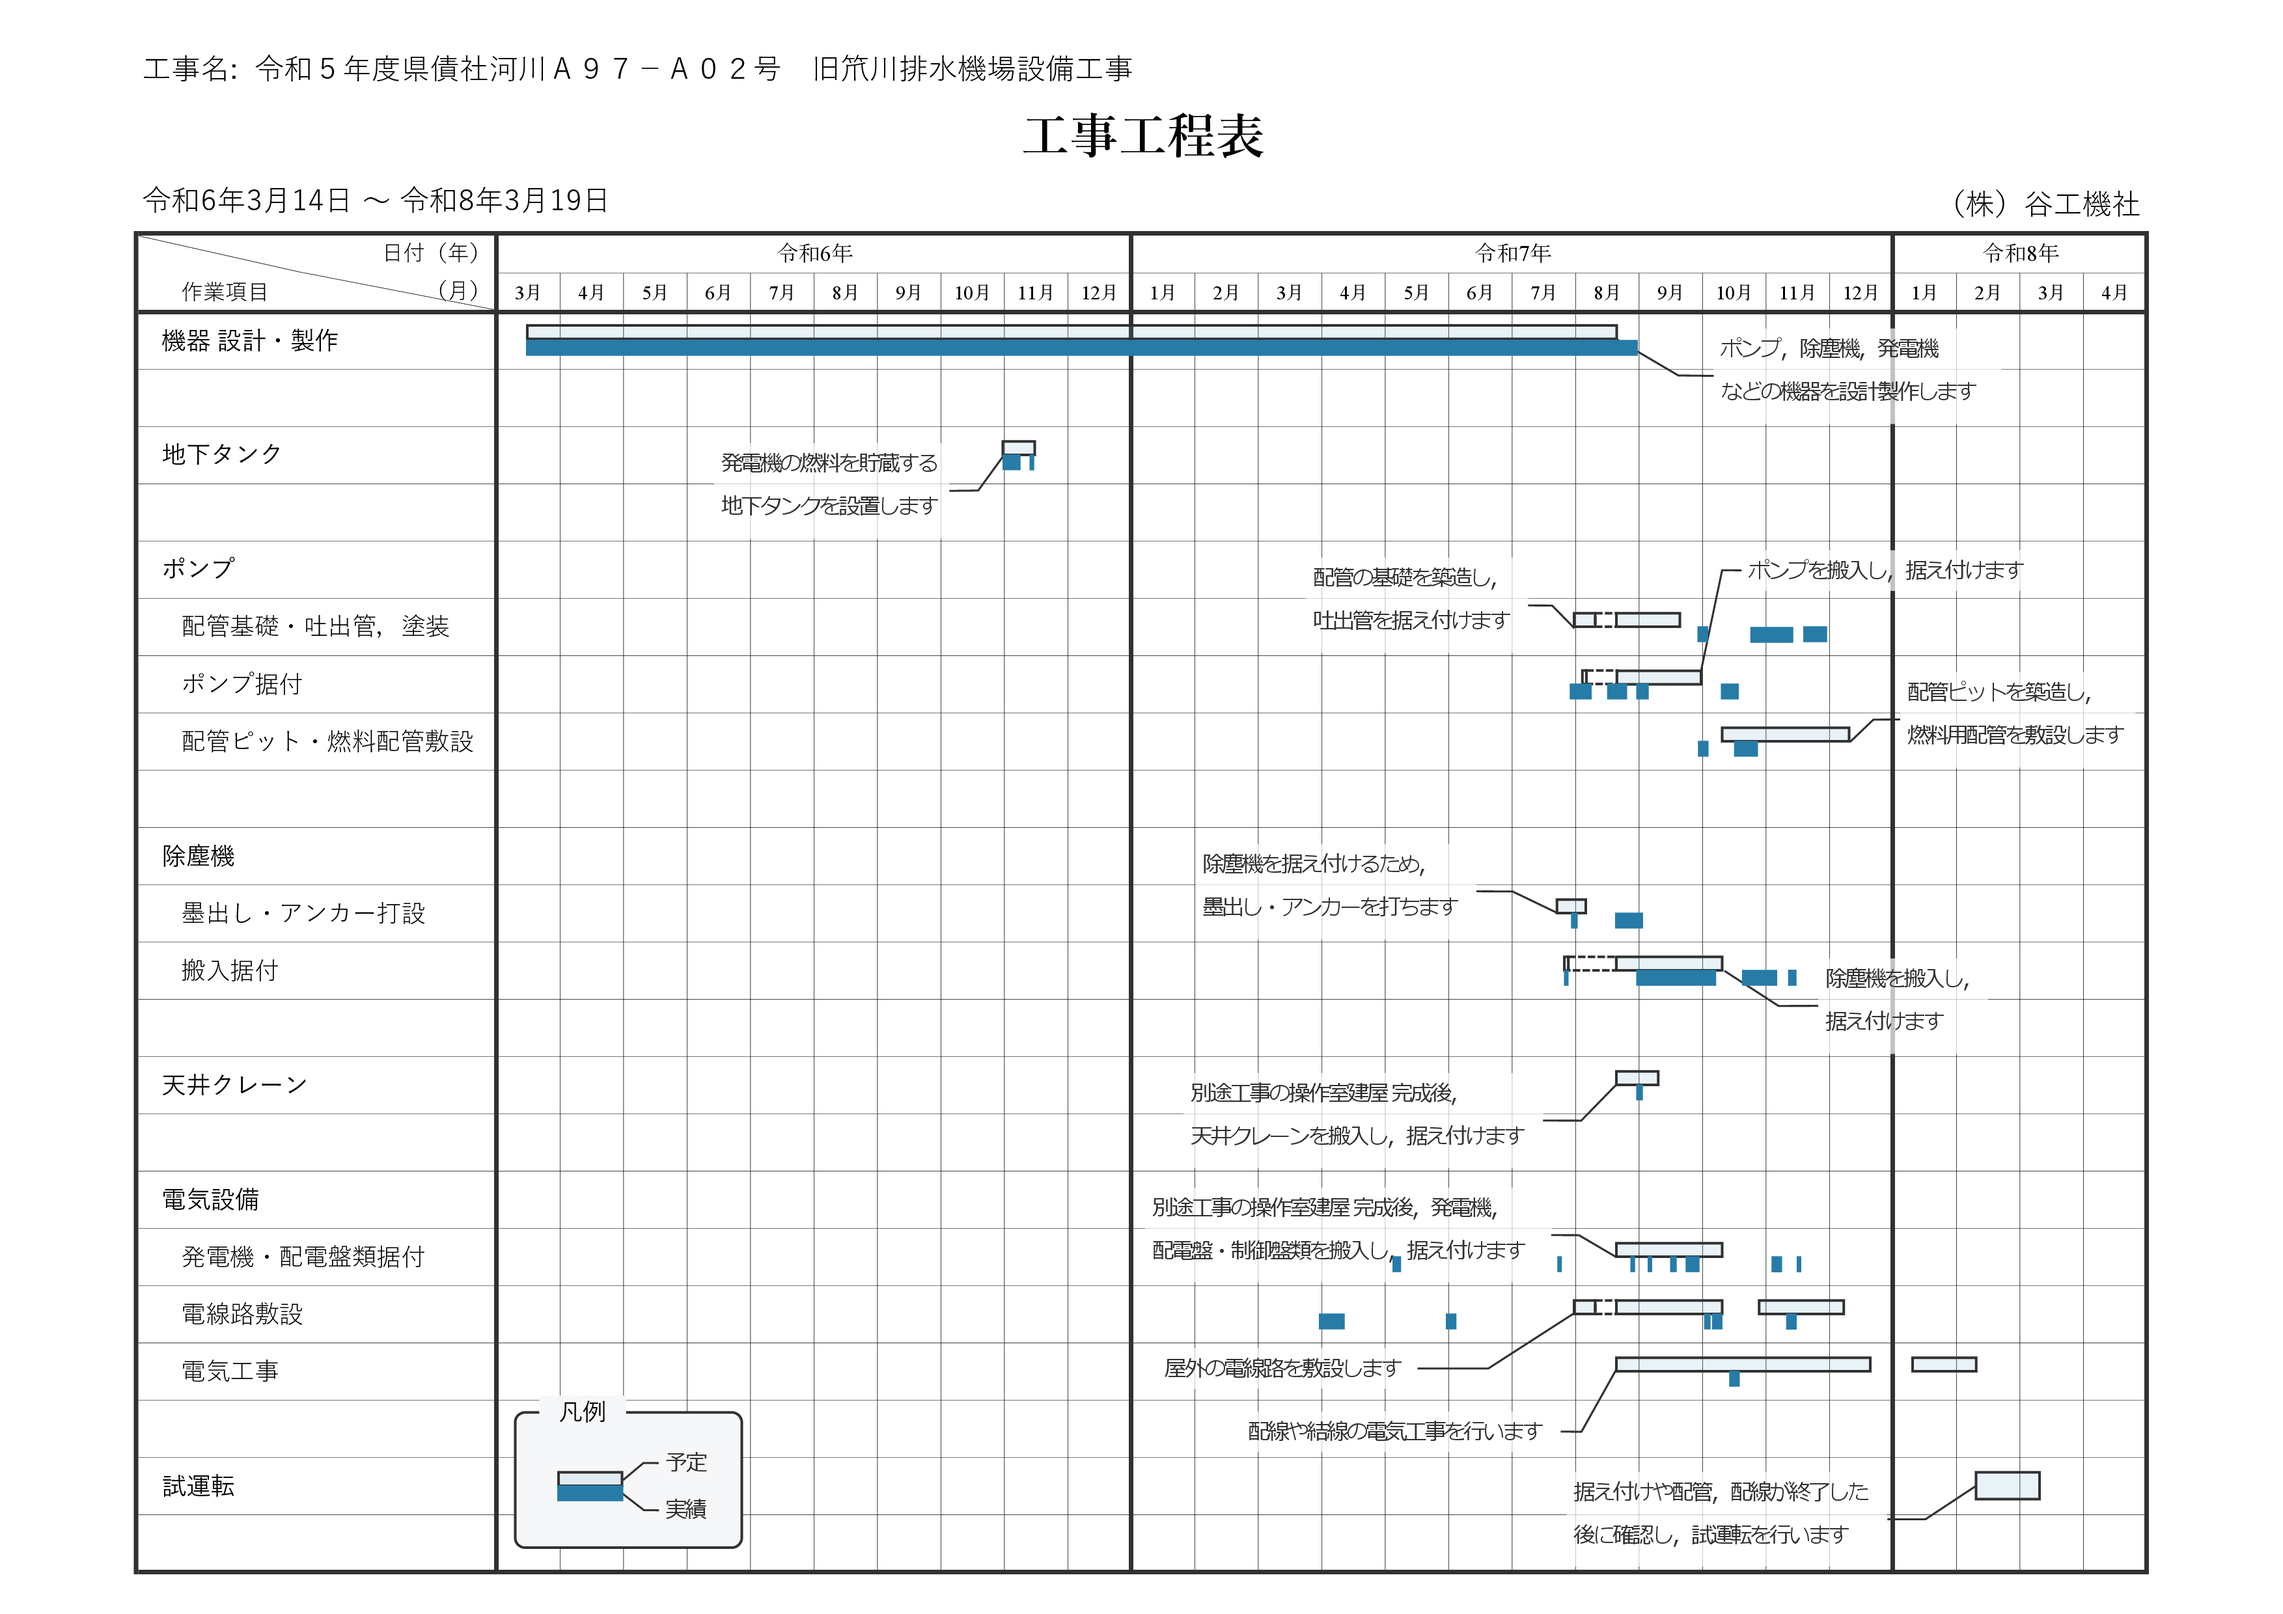
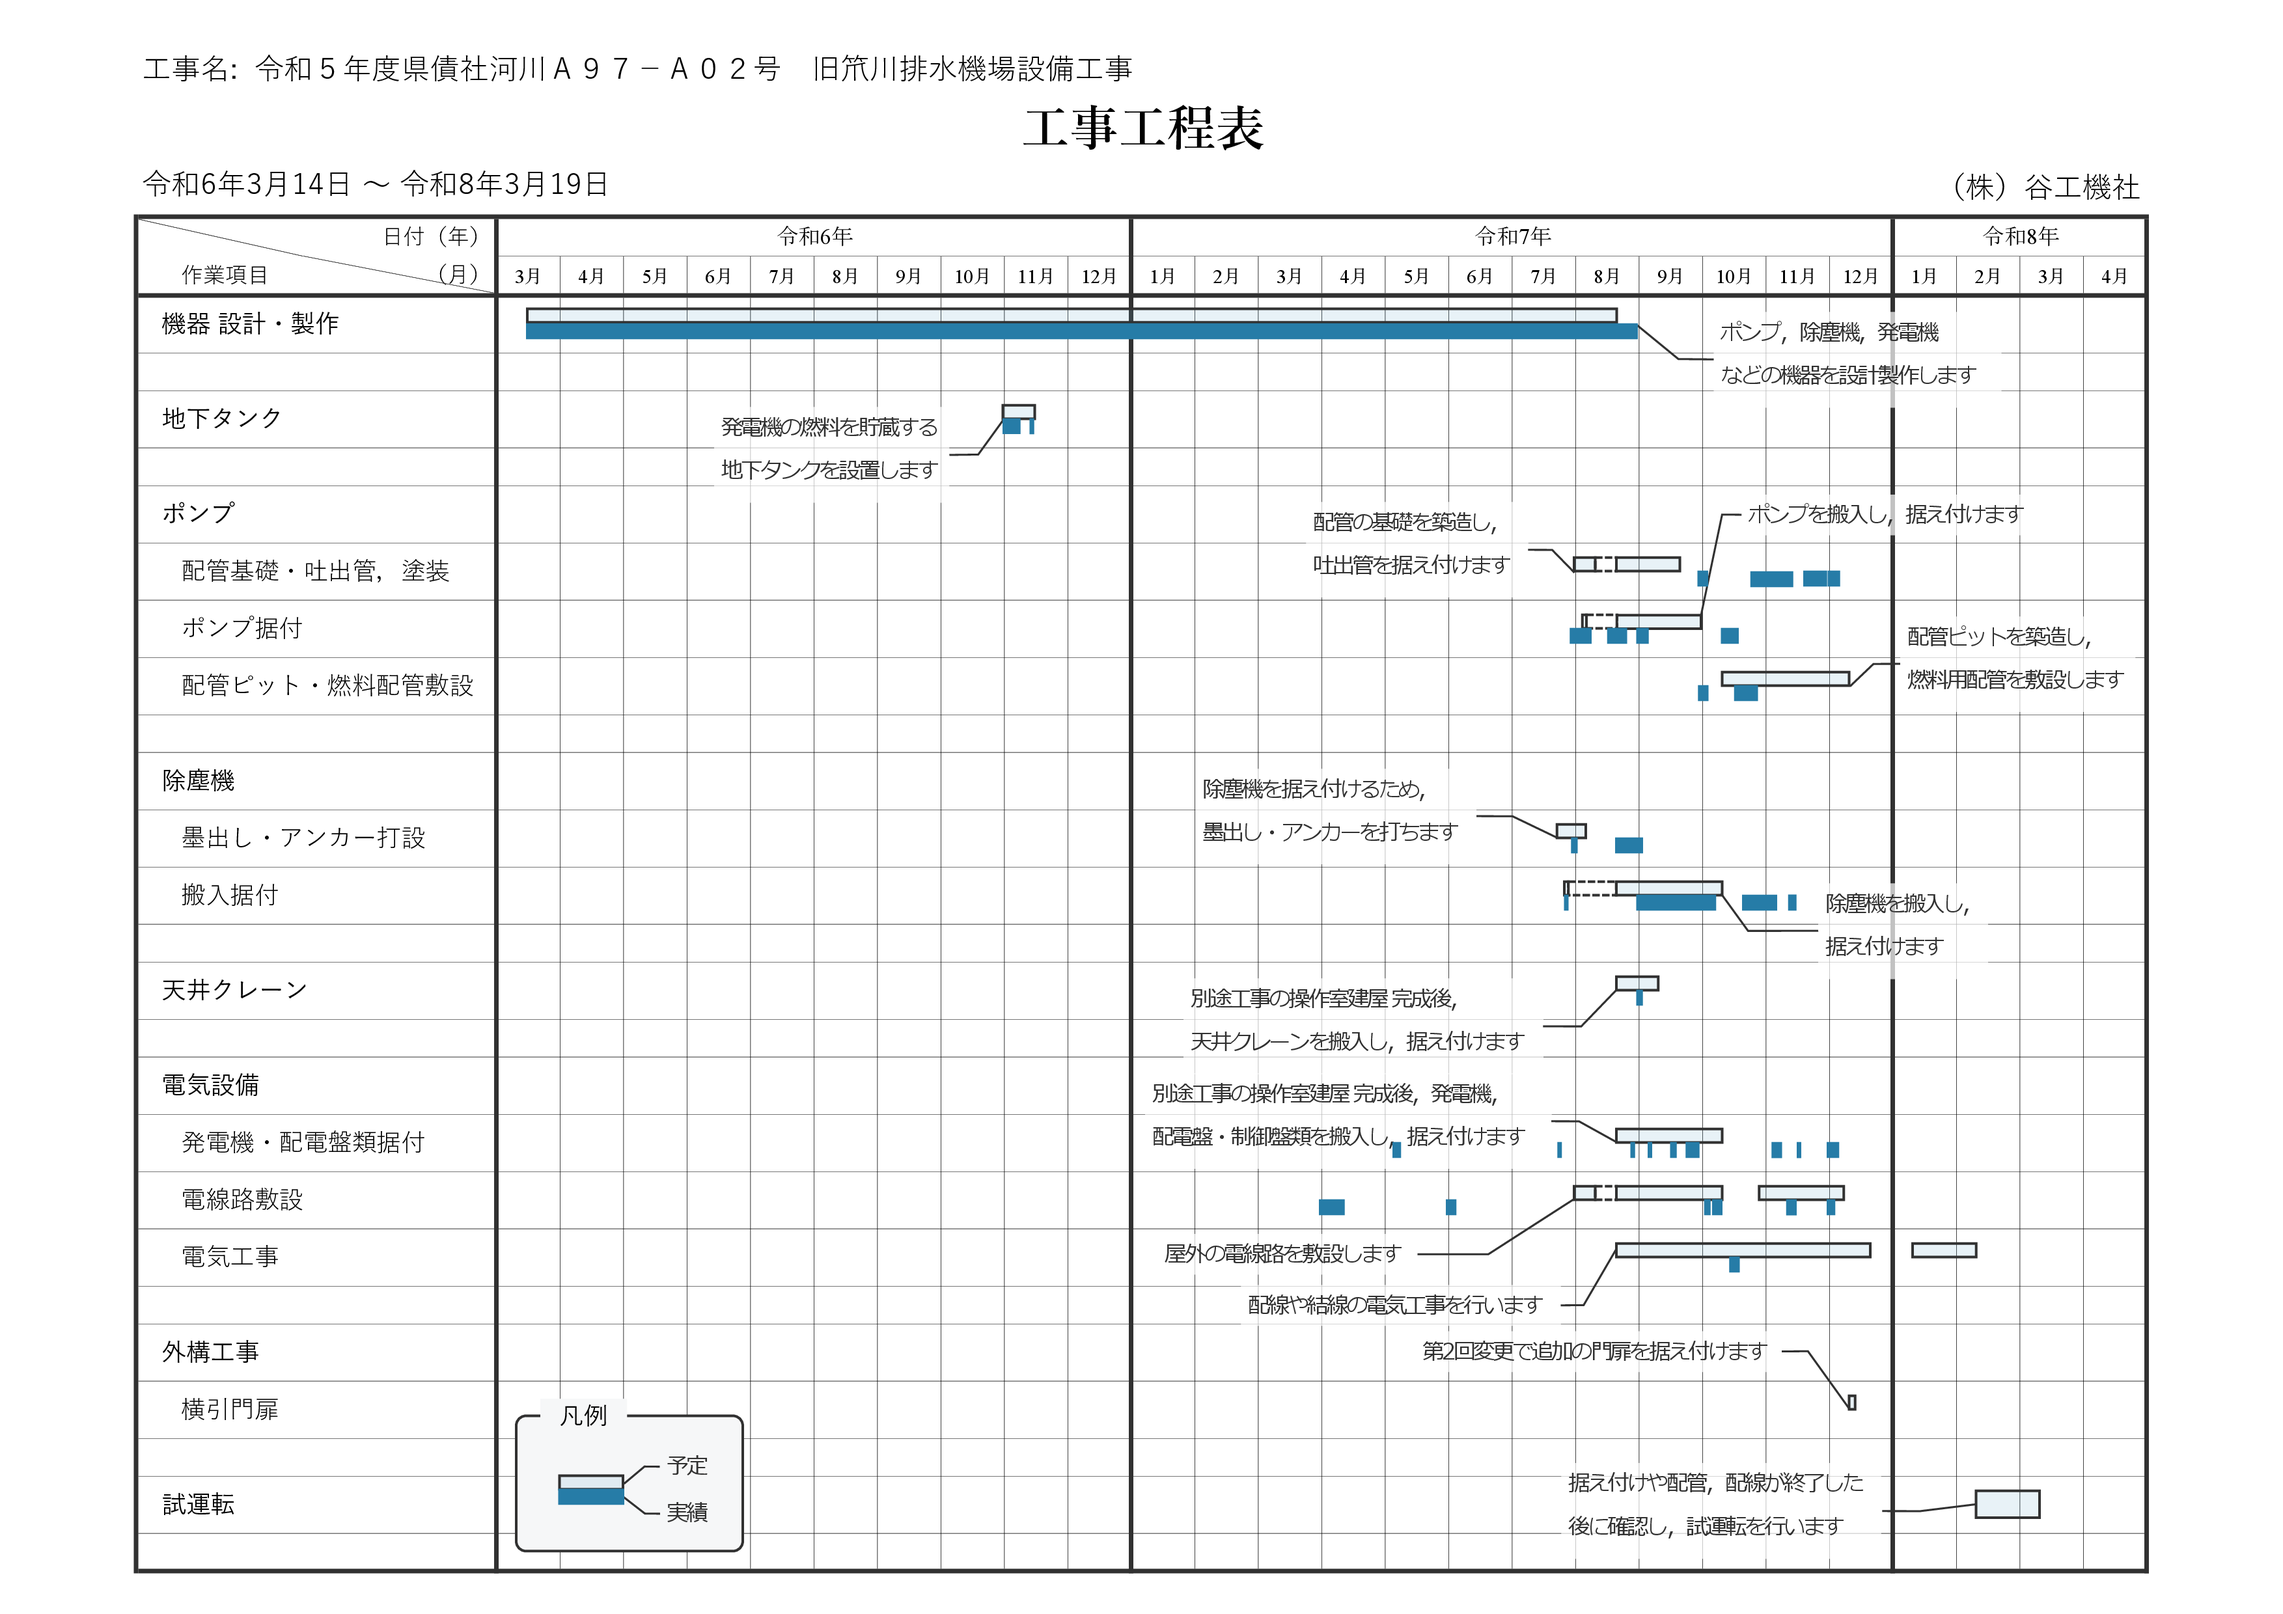
Update: schedule.html の予定更新，schedule.webp 全体工程表の実績更新

diff --git a/schedule.html b/schedule.html
@@ -3526,7 +3526,7 @@
             </tr>
           </tbody>
         </table>
--->
+
         <table class='end_space'>
           <caption class="t-above">（先週の実績）</caption>
           <colgroup>
@@ -3589,9 +3589,9 @@
             </tr>
           </tbody>
         </table>
-
+-->
         <table class='end_space'>
-          <caption class="t-above">（今週の予定）</caption>
+          <caption class="t-above">（先週の実績）</caption>
           <colgroup>
             <col  class="org-center">
             <col  class="org-center">
@@ -3653,7 +3653,7 @@
         </table>
 
         <table class='end_space'>
-          <caption class="t-above">（次週の予定）</caption>
+          <caption class="t-above">（今週の予定）</caption>
           <colgroup>
             <col  class="org-center">
             <col  class="org-center">
@@ -3669,31 +3669,35 @@
           <tbody>
             <tr>
               <td class="org-left">12-15（月）</td>
-              <td class="org-left">主配管の基礎工<br></td>
+              <td class="org-left">主配管の基礎工<br>点検歩廊等の基礎工<br>
+              発電機調整<br></td>
               <td class="org-left"></td>
             </tr>
 
             <tr>
               <td class="org-left">12-16（火）</td>
-              <td class="org-left">点検歩廊等の基礎工<br></td>
+              <td class="org-left">点検歩廊等の基礎工<br>発電機調整<br></td>
               <td class="org-left"></td>
             </tr>
 
             <tr>
               <td class="org-left">12-17（水）</td>
-              <td class="org-left">点検歩廊等の基礎工<br></td>
+              <td class="org-left">点検歩廊等の基礎工<br>発電機調整<br>
+              門扉の基礎工<br></td>
               <td class="org-left"></td>
             </tr>
 
             <tr>
               <td class="org-left">12-18（木）</td>
-              <td class="org-left">点検歩廊等の基礎工<br></td>
+              <td class="org-left">点検歩廊等の基礎工<br>発電機調整<br>
+              門扉の基礎工<br>仮設 角落し設置<br></td>
               <td class="org-left"></td>
             </tr>
 
             <tr>
               <td class="org-left">12-19（金）</td>
-              <td class="org-left">点検歩廊等の基礎工<br></td>
+              <td class="org-left">点検歩廊等の基礎工<br>発電機調整<br>
+              門扉の基礎工<br>仮設 角落し設置<br></td>
               <td class="org-left"></td>
             </tr>
 
@@ -3705,6 +3709,65 @@
 
             <tr>
               <td class="org-left">12-21（日）</td>
+              <td class="org-left">休み</td>
+              <td class="org-left"></td>
+            </tr>
+          </tbody>
+        </table>
+
+        <table class='end_space'>
+          <caption class="t-above">（次週の予定）</caption>
+          <colgroup>
+            <col  class="org-center">
+            <col  class="org-center">
+            <col  class="org-center">
+          </colgroup>
+          <thead>
+            <tr>
+              <th scope="col" class="org-center">月日</th>
+              <th scope="col" class="org-center">作業予定</th>
+              <th scope="col" class="org-center">備 考</th>
+            </tr>
+          </thead>
+          <tbody>
+            <tr>
+              <td class="org-left">12-22（月）</td>
+              <td class="org-left">主配管の調整<br></td>
+              <td class="org-left"></td>
+            </tr>
+
+            <tr>
+              <td class="org-left">12-23（火）</td>
+              <td class="org-left">主配管の調整<br></td>
+              <td class="org-left"></td>
+            </tr>
+
+            <tr>
+              <td class="org-left">12-24（水）</td>
+              <td class="org-left">主配管の調整<br></td>
+              <td class="org-left"></td>
+            </tr>
+
+            <tr>
+              <td class="org-left">12-25（木）</td>
+              <td class="org-left">主配管の調整<br></td>
+              <td class="org-left"></td>
+            </tr>
+
+            <tr>
+              <td class="org-left">12-26（金）</td>
+              <td class="org-left">現場清掃<br></td>
+              <td class="org-left"></td>
+            </tr>
+
+            <tr>
+              <td class="org-left">12-27（土）</td>
+              <td class="org-left">休み</td>
+              <td class="org-left"></td>
+            </tr>
+
+            <tr>
+              <td class="org-left">12-28（日）</td>
               <td class="org-left">休み</td>
               <td class="org-left"></td>
             </tr>
@@ -3727,48 +3790,54 @@
           </thead>
           <tbody>
             <tr>
-              <td class="org-left">12-22（月）</td>
-              <td class="org-left">主配管の据付<br></td>
+              <td class="org-left">12-29（月）</td>
+              <td class="org-left">休み<br></td>
               <td class="org-left"></td>
             </tr>
 
             <tr>
-              <td class="org-left">12-23（火）</td>
-              <td class="org-left">主配管の据付<br></td>
+              <td class="org-left">12-30（火）</td>
+              <td class="org-left">休み<br></td>
               <td class="org-left"></td>
             </tr>
 
             <tr>
-              <td class="org-left">12-24（水）</td>
-              <td class="org-left">主配管の据付<br></td>
+              <td class="org-left">12-31（水）</td>
+              <td class="org-left">休み<br></td>
               <td class="org-left"></td>
             </tr>
 
             <tr>
-              <td class="org-left">12-25（木）</td>
-              <td class="org-left">主配管の据付<br></td>
+              <td class="org-left">01-01（木）</td>
+              <td class="org-left">休み<br></td>
               <td class="org-left"></td>
             </tr>
 
             <tr>
-              <td class="org-left">12-26（金）</td>
-              <td class="org-left">　　　　　<br></td>
+              <td class="org-left">01-02（金）</td>
+              <td class="org-left">休み<br></td>
               <td class="org-left"></td>
             </tr>
 
             <tr>
-              <td class="org-left">12-27（土）</td>
+              <td class="org-left">01-03（土）</td>
               <td class="org-left">休み</td>
               <td class="org-left"></td>
             </tr>
 
             <tr>
-              <td class="org-left">12-28（日）</td>
+              <td class="org-left">01-04（日）</td>
               <td class="org-left">休み</td>
               <td class="org-left"></td>
             </tr>
           </tbody>
         </table>
+
+        <p>
+          「旧笊川排水機場 設備工事」としては，2025年12月27日（土）から
+          2026年1月4日（日）まで年末年始休業とします。<br>
+          2026年1月5日（月）から始業します。
+        </p>
 
         <h3>《工事全体の予定》</h3>
         <!-- 全体工程表の表示 -->
